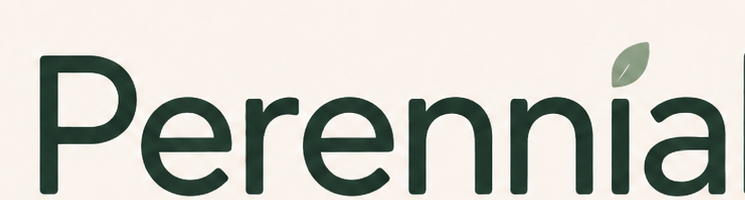
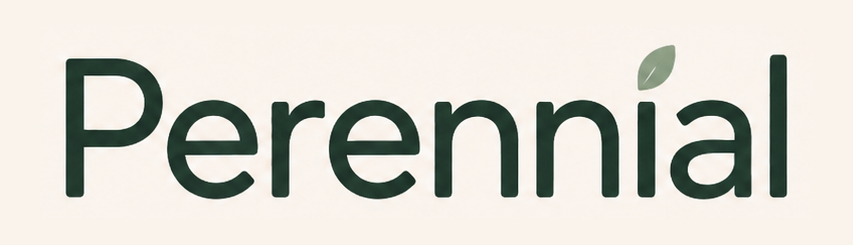
Use the centered brand exports; add an app header lockup
New centered artwork replaces all three brand sources. The wordmark export
is fixed — the previous one ran ink to the final pixel column and read
"Perennia"; this one carries even 66px margins, so the full word is intact
and it's back in use.

- gen-icons.mjs now also emits public/wordmark.png, trimmed to the
  lettering (724×155) so lockups can be sized by height precisely. The
  source keeps its generous centering margins; the shipped copy doesn't
  need them.
- New AppHeader: mark + wordmark on one line at the top of every screen.
  Sits in normal flow rather than fixed, so it scrolls away instead of
  competing with each screen's own title. Owns the top safe-area inset;
  .screen padding adjusted to match (min-height accounts for it so short
  screens still fill the viewport).
- Onboarding's stacked mark-over-type becomes the same one-line lockup at
  a larger size, now using the real wordmark instead of the text fallback.

Both images carry the artwork cream, which is exactly --bg, so they sit
flush with no cutout.

diff --git a/src/screens/OnboardingScreen.jsx b/src/screens/OnboardingScreen.jsx
@@ -19,15 +19,10 @@ export function OnboardingScreen() {
 
   return (
     <main className={`screen ${styles.wrap}`}>
-      {/* Using the app mark + type rather than brand/wordmark.png — that export
-          is cropped at the right edge (the final "l" is cut off). Swap the
-          image back in once there's an untrimmed version. */}
-      <img
-        src={`${import.meta.env.BASE_URL}icon-192.png`}
-        alt=""
-        className={styles.mark}
-      />
-      <div className={styles.wordmarkText}>Perennial</div>
+      <div className={styles.lockup}>
+        <img src={`${import.meta.env.BASE_URL}icon-192.png`} alt="" className={styles.mark} />
+        <img src={`${import.meta.env.BASE_URL}wordmark.png`} alt="Perennial" className={styles.wordmark} />
+      </div>
       <p className={styles.tagline}>
         Strength, movement, and breath — a simple plan for being fit at 40,
         60, and beyond. Three short sessions a week. Everything stays on your

diff --git a/src/screens/OnboardingScreen.module.css b/src/screens/OnboardingScreen.module.css
@@ -10,23 +10,26 @@
 .wrap > :first-child { margin-top: auto; }
 .wrap > :last-child  { margin-bottom: auto; }
 
-/* The mark ships on the artwork's cream — the same cream as --bg — so it sits
-   flush on the page with no cutout needed. */
-.mark {
-  display: block;
-  width: 92px;
-  height: 92px;
-  margin: auto 0 10px;
-  border-radius: 22px;
+/* Brand lockup — mark and wordmark on one line. Both ship on the artwork's
+   cream, which is exactly --bg, so they sit flush with no cutout needed. */
+.lockup {
+  display: flex;
+  align-items: center;
+  gap: 12px;
+  margin: auto 0 6px;
 }
 
-.wordmarkText {
-  font-family: var(--font-body);
-  font-size: 40px;
-  font-weight: 500;
-  letter-spacing: -0.02em;
-  color: var(--t1);
-  line-height: 1;
+.mark {
+  width: 54px;
+  height: 54px;
+  border-radius: 14px;
+  flex-shrink: 0;
+}
+
+.wordmark {
+  height: 34px;
+  width: auto;
+  display: block;
 }
 
 .tagline {

diff --git a/src/App.jsx b/src/App.jsx
@@ -2,6 +2,7 @@ import { useEffect, useState } from 'react';
 import { QueryClientProvider } from '@tanstack/react-query';
 import { queryClient } from './lib/queryClient';
 import { BottomNav } from './components/BottomNav';
+import { AppHeader } from './components/AppHeader';
 import { OnboardingScreen } from './screens/OnboardingScreen';
 import { TodayScreen } from './screens/TodayScreen';
 import { WorkoutScreen } from './screens/WorkoutScreen';
@@ -93,6 +94,7 @@ export default function App() {
 
   return (
     <QueryClientProvider client={queryClient}>
+      <AppHeader />
       <div hidden={tab !== 'today'}>
         <TodayScreen onStart={handleStart} />
       </div>

diff --git a/src/components/AppHeader.module.css b/src/components/AppHeader.module.css
@@ -1,0 +1,25 @@
+/* Slim brand bar above every screen. Sits in normal flow (not fixed) so it
+   scrolls away and never competes with the screen title beneath it. */
+.header {
+  display: flex;
+  align-items: center;
+  gap: 9px;
+  padding: calc(var(--sat) + 12px) 18px 4px;
+  max-width: var(--app-max-w);
+  margin: 0 auto;
+}
+
+.mark {
+  width: 26px;
+  height: 26px;
+  border-radius: 7px;
+  flex-shrink: 0;
+}
+
+/* Height-driven so the lockup stays optically balanced with the mark; the
+   PNG is pre-trimmed to the lettering so this is exact. */
+.wordmark {
+  height: 19px;
+  width: auto;
+  display: block;
+}

diff --git a/src/components/AppHeader.jsx b/src/components/AppHeader.jsx
@@ -1,0 +1,14 @@
+import styles from './AppHeader.module.css';
+
+// Brand lockup at the top of the app: the mark and the wordmark on one line.
+// Both assets carry the artwork's cream background, which is exactly --bg, so
+// they sit flush on the page with no cutout needed.
+export function AppHeader() {
+  const base = import.meta.env.BASE_URL;
+  return (
+    <header className={styles.header}>
+      <img src={`${base}icon-192.png`} alt="" className={styles.mark} />
+      <img src={`${base}wordmark.png`} alt="Perennial" className={styles.wordmark} />
+    </header>
+  );
+}

diff --git a/src/index.css b/src/index.css
@@ -41,11 +41,11 @@ a { color: var(--green); text-decoration: none; }
 }
 
 .screen {
-  min-height: 100svh;
-  padding:
-    calc(var(--sat) + 16px)
-    16px
-    calc(var(--sab) + var(--bottom-nav-h) + 16px);
+  /* The safe-area inset lives on AppHeader above; screens just need their own
+     breathing room under it. min-height accounts for the header so a short
+     screen still fills the viewport. */
+  min-height: calc(100svh - 62px);
+  padding: 10px 16px calc(var(--sab) + var(--bottom-nav-h) + 16px);
   animation: fadeUp 0.22s ease;
 }
 
